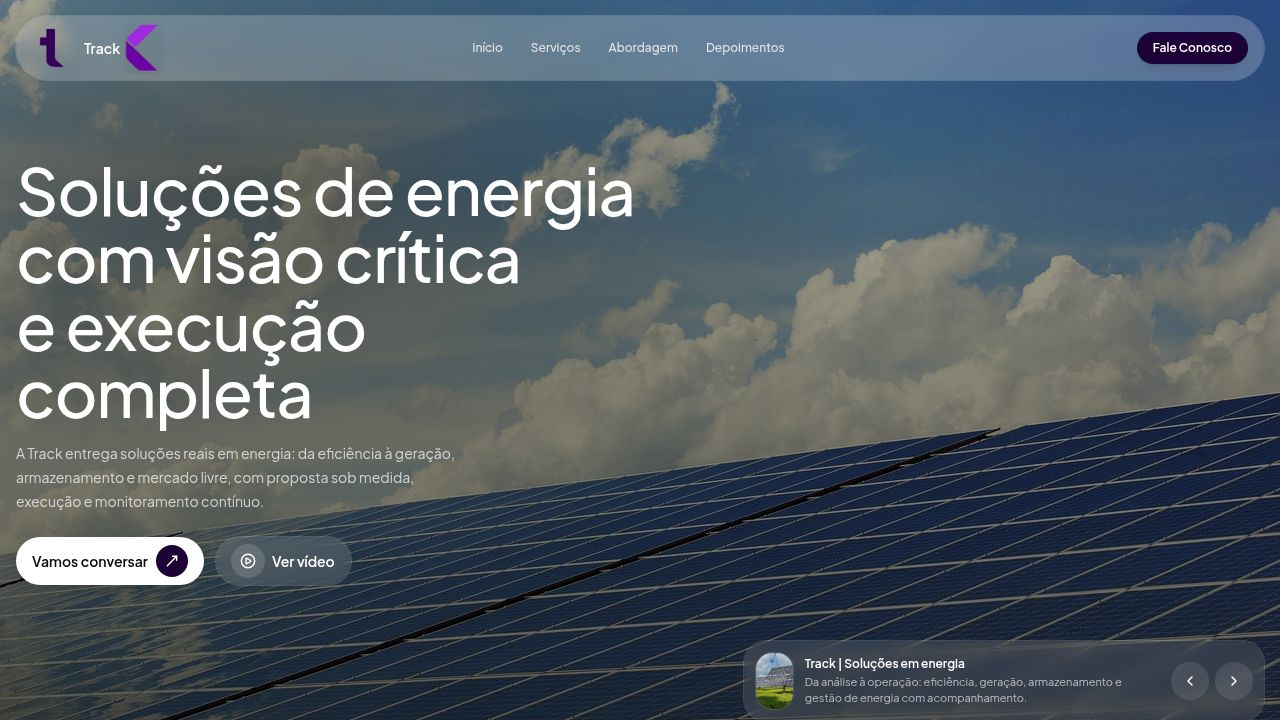
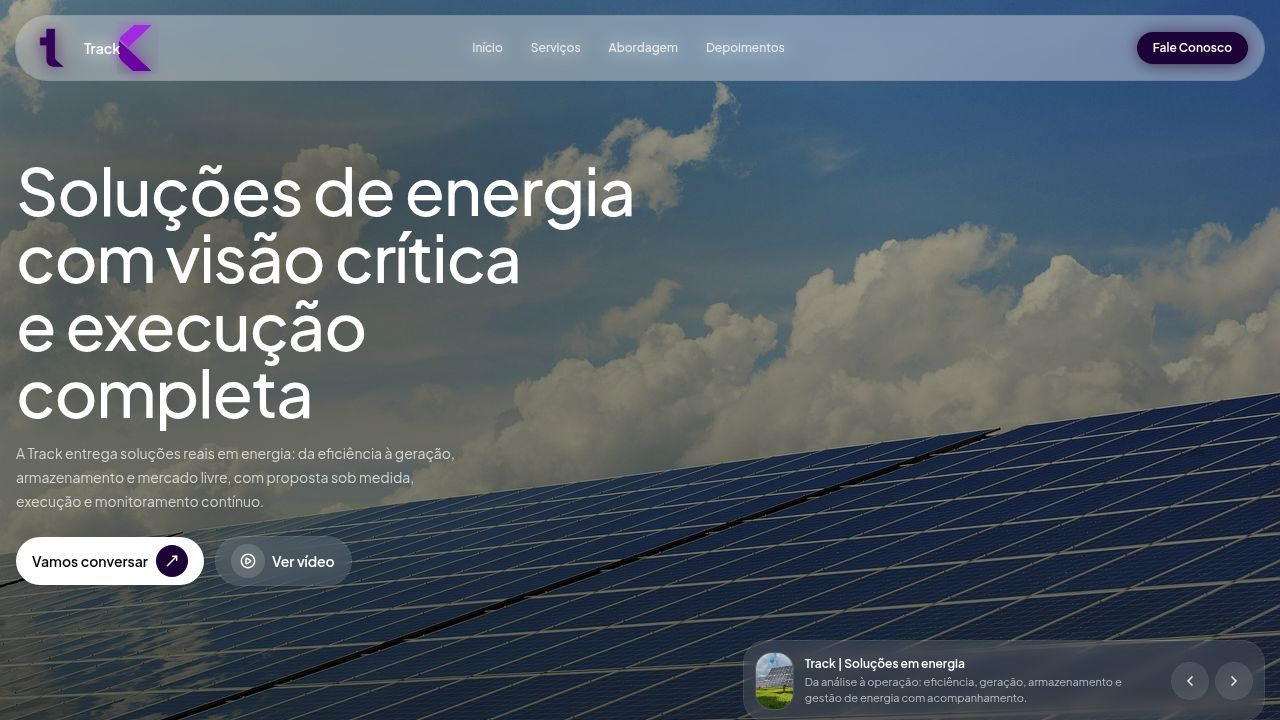
Adjust header and contact page layout, and remove glow effect
Modify header and contact page styles to improve positioning and remove visual effects, also refactor site shell to ensure persistent header and footer across all pages.

Replit-Commit-Author: Agent
Replit-Commit-Session-Id: 05433b61-7f45-4740-8117-653797f1786e
Replit-Commit-Checkpoint-Type: full_checkpoint
Replit-Commit-Event-Id: 4f694401-030f-45d5-ad7c-4396caa7aa27
Replit-Commit-Screenshot-Url: https://storage.googleapis.com/screenshot-production-us-central1/eede4cac-3f58-423c-a1e9-f071d8b2dafc/05433b61-7f45-4740-8117-653797f1786e/3O3x9Hn
Replit-Helium-Checkpoint-Created: true

Changed region(s): [[0.0312, 0.0, 0.9688, 0.1222], [0.9688, 0.0611, 1.0, 0.0917]]

diff --git a/client/src/components/site-shell.tsx b/client/src/components/site-shell.tsx
@@ -178,7 +178,7 @@ export function SiteHeader({ onContact }: { onContact: () => void }) {
         <div
           ref={headerRef}
           data-testid="header-shell"
-          className="relative mt-4 flex items-center justify-between overflow-hidden rounded-full bg-white/22 px-4 py-3 ring-1 ring-white/18 backdrop-blur"
+          className="relative mt-4 flex items-center justify-between overflow-hidden rounded-full bg-white/18 px-4 py-3 ring-1 ring-white/14 backdrop-blur"
         >
           {!arrowGone ? (
             <div data-testid="anim-arrow-layer" className="pointer-events-none absolute inset-0">
@@ -246,7 +246,7 @@ export function SiteHeader({ onContact }: { onContact: () => void }) {
             <a
               data-testid="link-nav-home"
               href="#top"
-              className="transition hover:text-white"
+              className="transition hover:text-white/90"
               style={{ pointerEvents: showHome ? "auto" : "none", visibility: showHome ? "visible" : "hidden" }}
             >
               Início
@@ -254,7 +254,7 @@ export function SiteHeader({ onContact }: { onContact: () => void }) {
             <a
               data-testid="link-nav-product"
               href="#product"
-              className="transition hover:text-white"
+              className="transition hover:text-white/90"
               style={{ pointerEvents: showProduct ? "auto" : "none", visibility: showProduct ? "visible" : "hidden" }}
             >
               Serviços
@@ -262,7 +262,7 @@ export function SiteHeader({ onContact }: { onContact: () => void }) {
             <a
               data-testid="link-nav-process"
               href="#process"
-              className="transition hover:text-white"
+              className="transition hover:text-white/90"
               style={{ pointerEvents: showProcess ? "auto" : "none", visibility: showProcess ? "visible" : "hidden" }}
             >
               Abordagem
@@ -270,7 +270,7 @@ export function SiteHeader({ onContact }: { onContact: () => void }) {
             <a
               data-testid="link-nav-testimonials"
               href="#testimonials"
-              className="transition hover:text-white"
+              className="transition hover:text-white/90"
               style={{
                 pointerEvents: showTestimonials ? "auto" : "none",
                 visibility: showTestimonials ? "visible" : "hidden",

diff --git a/client/src/pages/contact.tsx b/client/src/pages/contact.tsx
@@ -66,7 +66,7 @@ export default function Contact() {
         </div>
 
         <div className="relative mx-auto w-full max-w-[1560px] px-4 sm:px-6 lg:px-10 2xl:px-12">
-          <div className="pt-10 sm:pt-12 lg:pt-14">
+          <div className="pt-5 sm:pt-7 lg:pt-9">
             <motion.div
               initial={reduced ? undefined : { opacity: 0, y: 14 }}
               animate={reduced ? undefined : { opacity: 1, y: 0 }}
